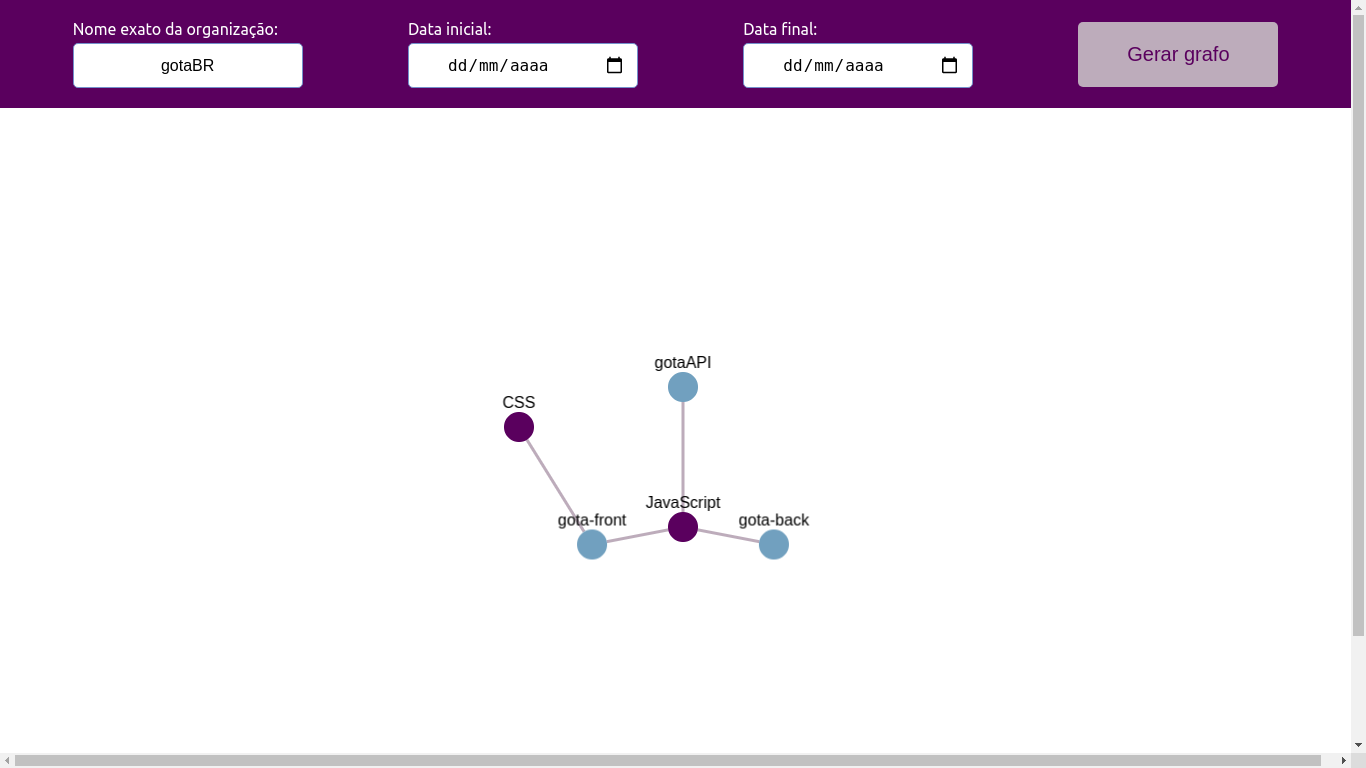
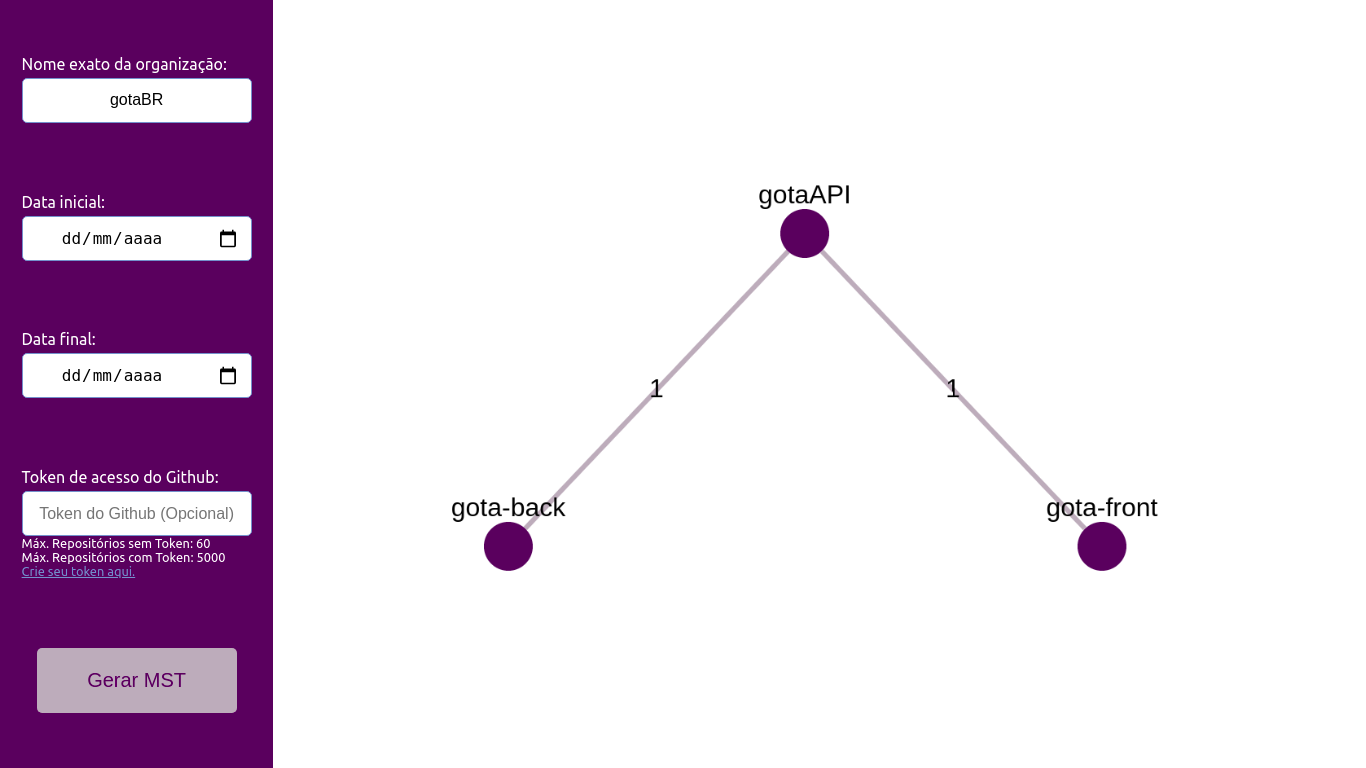
UPDATE: update README

diff --git a/README.md b/README.md
@@ -11,9 +11,8 @@
 ## Sobre 
 Esse projeto é uma evolução do [primeiro trabalho de Projeto de Algoritmos](https://github.com/projeto-de-algoritmos/Grafos1_ProjetosSimilares).
 
-O objetivo desse projeto é a avaliação de projetos similares em Organizações do Github na forma de grafos. Desse modo, os repositórios são representados como nós e as arestas são as linguagens que esses repositórios podem ter em comum.
+O objetivo desse projeto é a avaliação de projetos similares em Organizações do Github na forma de uma **Árvore Geradora Máxima** obtida através do algoritmo de Kruskal aplicado em um grafo gerado anteriormente. Nesse grafo os repositórios são representados como nós e as arestas são as linguagens que esses repositórios podem ter em comum.
 
-Após gerar o grafo, é possível gerar sua **Árvore Geradora Mínima** para verificar quais repositórios tem mais linguagens em comum.
 
 ## Screenshots
 ![Foto Vazia](./images/vazia.png) <br> <br>
@@ -35,12 +34,12 @@ https://nodejs.org/en/
 
 1. Clone o projeto na sua máquina:
 ```
-git clone https://github.com/projeto-de-algoritmos/Grafos1_ProjetosSimilares
+git clone https://github.com/projeto-de-algoritmos/Grafos2_ProjetosSimilares
 ```
 
 2. Entre na pasta do projeto:
 ```
-cd -Grafos2_ProjetosSimilares/projetossimilares
+cd Grafos2_ProjetosSimilares/projetossimilares
 ```
 
 3. Instale as dependências do projeto:
@@ -59,11 +58,7 @@ http://localhost:3000/
 ```
 
 ## Uso 
-Para utilizar o projeto, basta preencher os campos de: nome da organização, data inicial e data final, que funcionam como um filtro de busca.
+Para utilizar o projeto, basta preencher os campos de: nome da organização, data inicial e data final, que funcionam como um filtro de busca. Há a opção de inserir um token de acesso ao GitHub para aumentar o número de requisições disponíveis pela API do Github(sem o token são permitidas 60 por hora e com o token são permitidas 5000 por hora).
 
-## Importante:
-Devido ao limite de requisições do Github, esse projeto funcionará em buscas que retornem no máximo 59 repositórios. Qualquer pesquisa que ultrapasse esse limite resultará no bloqueio do seu IP para novas requisições ao Github por 1 hora.
-
-
-
+Para criar seu token de acesso, entre no [link](https://github.com/settings/tokens) e selecione a opção public_repo e gere o token.
 
